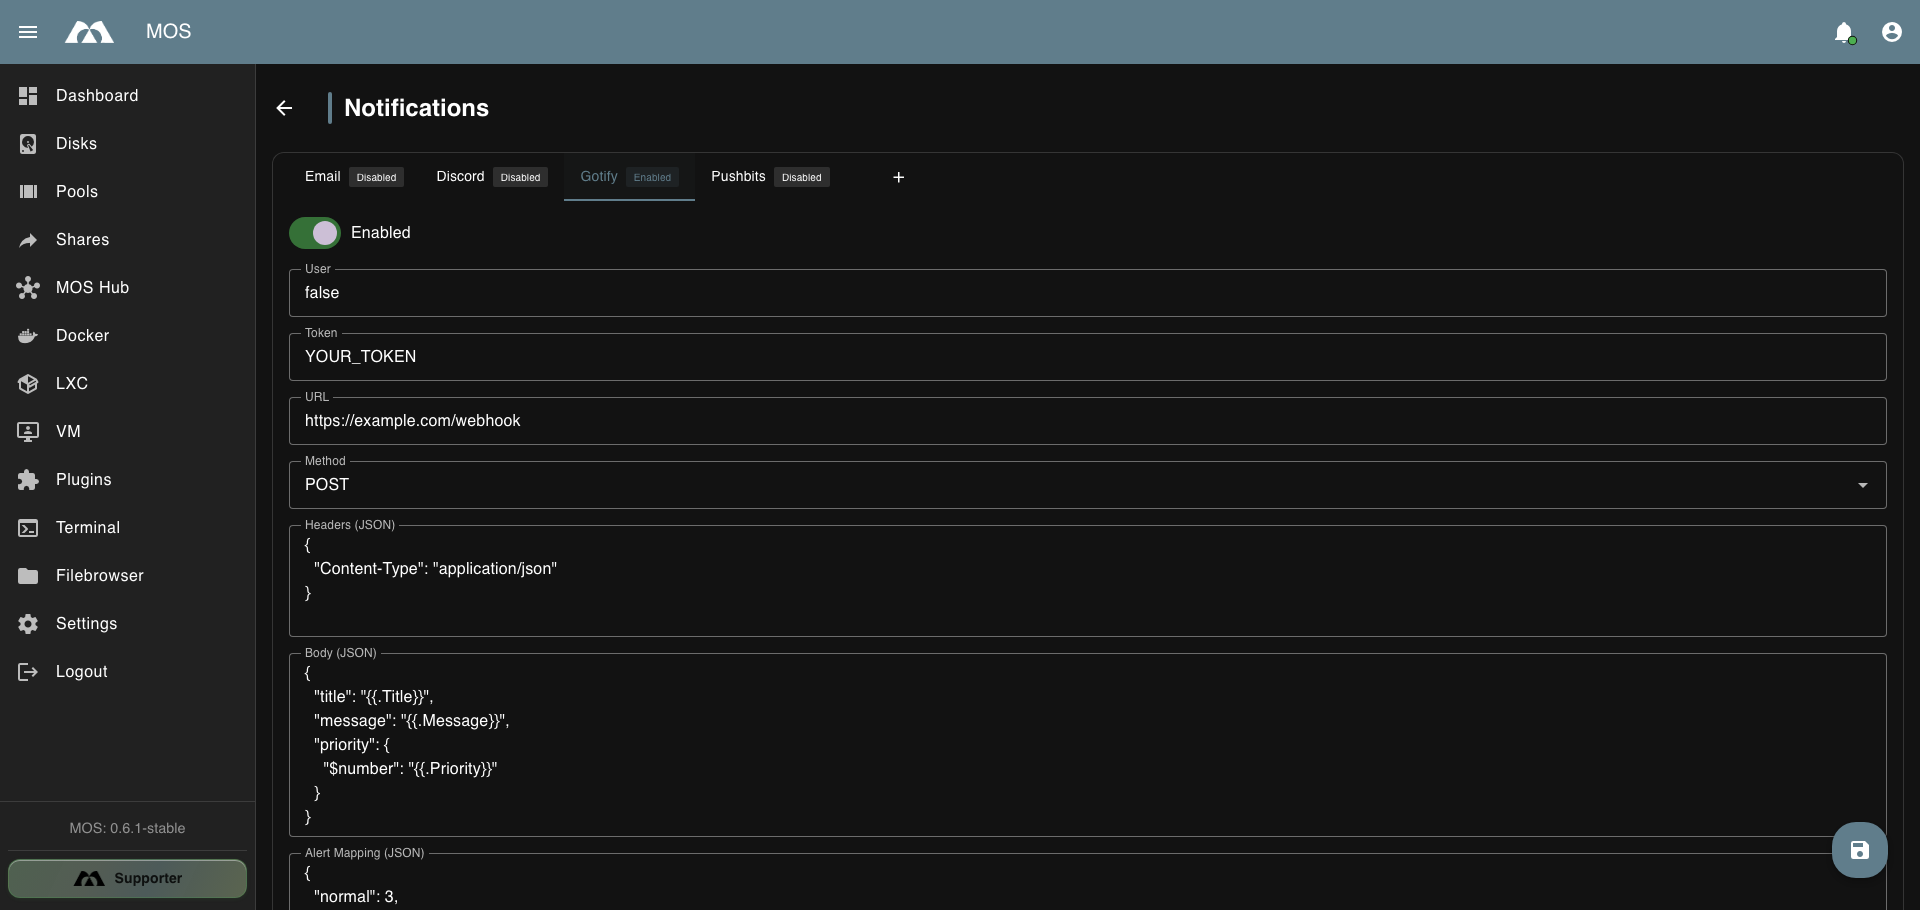
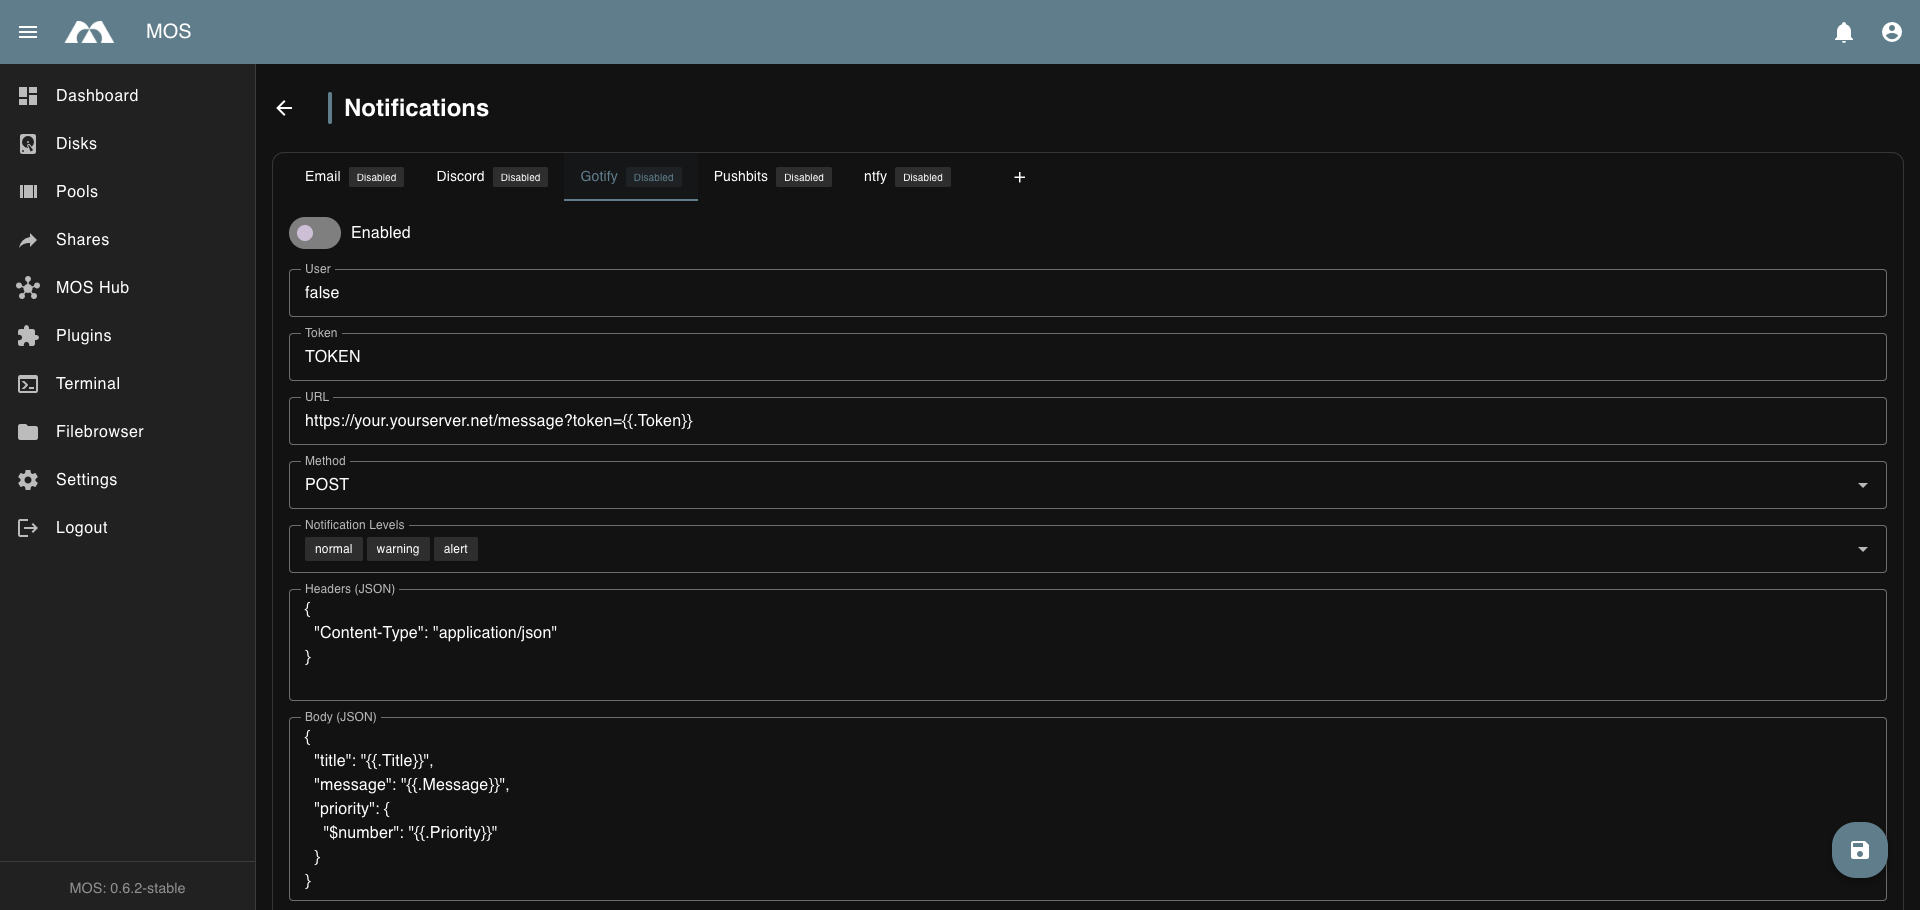
Edit Token and Notification

diff --git a/docs/Settings/System-Configuration/Notifications.md b/docs/Settings/System-Configuration/Notifications.md
@@ -35,6 +35,7 @@ MOS Notify supports the following notification providers:
 | **Discord** | Webhook | Send notifications to a Discord channel via webhook |
 | **Gotify** | API | Send notifications to a self-hosted Gotify server |
 | **Pushbits** | API | Send notifications to a self-hosted Pushbits instance |
+| **ntfy** | API | Send notifications to a self-hosted ntfy server |
 
 :::info
 Multiple providers can be enabled simultaneously. If no external provider is configured, notifications will still be displayed inside the MOS WebUI.
@@ -47,11 +48,13 @@ flowchart LR
   Notify --> Discord[Discord]
   Notify --> Gotify[Gotify]
   Notify --> Pushbits[Pushbits]
+  Notify --> Ntfy[ntfy]
   Notify --> Custom[Custom provider]
   Email --> User[Recipient]
   Discord --> User
   Gotify --> User
   Pushbits --> User
+  Ntfy --> User
   Custom --> User
 ```
 
@@ -81,6 +84,7 @@ The Email provider sends notifications via SMTP.
 | **Receiver** | Text | — | Email address that receives the notifications |
 | **Subject** | Text | `{{.Title}}` | Email subject template (supports template variables) |
 | **Body** | Text | `{{.Message}}` | Email body template (supports template variables) |
+| **Notification Levels** | Select | All | Levels delivered by this provider: `normal`, `warning`, `alert` |
 | **Alert Mapping (JSON)** | JSON | `{}` | Maps alert types to specific notification behavior |
 
 :::tip
@@ -104,6 +108,7 @@ The Discord provider sends notifications to a Discord channel via a webhook URL.
 | **Method** | Dropdown | `POST` | HTTP method for the webhook request |
 | **Headers (JSON)** | JSON | — | Custom HTTP headers for the webhook request |
 | **Body (JSON)** | JSON | — | Request body payload (supports template variables) |
+| **Notification Levels** | Select | All | Levels delivered by this provider: `normal`, `warning`, `alert` |
 | **Alert Mapping (JSON)** | JSON | — | Maps alert types to specific notification behavior |
 | **Color Priority (JSON)** | JSON | — | Defines embed colors based on priority levels |
 | **Delete Provider** | Button | — | Removes this provider configuration |
@@ -125,6 +130,7 @@ The Gotify provider sends notifications to a self-hosted Gotify server.
 | **Method** | Dropdown | `POST` | HTTP method for the API request |
 | **Headers (JSON)** | JSON | — | Custom HTTP headers |
 | **Body (JSON)** | JSON | — | Request body payload (supports template variables) |
+| **Notification Levels** | Select | All | Levels delivered by this provider: `normal`, `warning`, `alert` |
 | **Alert Mapping (JSON)** | JSON | — | Maps alert types to specific notification behavior |
 | **Color Priority (JSON)** | JSON | — | Defines notification colors based on priority |
 | **Delete Provider** | Button | — | Removes this provider configuration |
@@ -146,6 +152,29 @@ The Pushbits provider sends notifications to a self-hosted Pushbits instance.
 | **Method** | Dropdown | `POST` | HTTP method for the API request |
 | **Headers (JSON)** | JSON | — | Custom HTTP headers |
 | **Body (JSON)** | JSON | — | Request body payload (supports template variables) |
+| **Notification Levels** | Select | All | Levels delivered by this provider: `normal`, `warning`, `alert` |
+| **Alert Mapping (JSON)** | JSON | — | Maps alert types to specific notification behavior |
+| **Color Priority (JSON)** | JSON | — | Defines notification colors based on priority |
+| **Delete Provider** | Button | — | Removes this provider configuration |
+
+### 📨 ntfy
+
+The ntfy provider sends notifications to a self-hosted [ntfy](https://ntfy.sh) server.
+
+![ntfy Provider](/img/settings/system-configuration/notify-ntfy.png)
+
+*ntfy provider configuration.*
+
+| Field | Type | Default | Description |
+|-------|------|---------|-------------|
+| **Enabled** | Toggle | Off | Enables or disables the ntfy provider |
+| **User** | Text | — | ntfy username |
+| **Token** | Text | — | ntfy access token |
+| **URL** | Text | — | ntfy server URL |
+| **Method** | Dropdown | `POST` | HTTP method for the API request |
+| **Notification Levels** | Select | All | Levels delivered by this provider: `normal`, `warning`, `alert` |
+| **Headers (JSON)** | JSON | — | Custom HTTP headers |
+| **Body (JSON)** | JSON | — | Request body payload (supports template variables) |
 | **Alert Mapping (JSON)** | JSON | — | Maps alert types to specific notification behavior |
 | **Color Priority (JSON)** | JSON | — | Defines notification colors based on priority |
 | **Delete Provider** | Button | — | Removes this provider configuration |
@@ -156,7 +185,7 @@ The Pushbits provider sends notifications to a self-hosted Pushbits instance.
 
 Custom providers can be added via the **+** (floating action button) in the bottom-right corner of the Notifications page.
 
-This allows you to configure additional webhook-based notification providers that follow the same field structure as Discord, Gotify, and Pushbits (User, Token, URL, Method, Headers, Body, Alert Mapping, Color Priority).
+This allows you to configure additional webhook-based notification providers that follow the same field structure as Discord, Gotify, Pushbits, and ntfy (User, Token, URL, Method, Headers, Body, Alert Mapping, Color Priority).
 
 :::tip
 If you have implemented a new provider and would like to share it, please open a Pull Request at: [github.com/mos-nas/mos-boot-files](https://github.com/mos-nas/mos-boot-files)
@@ -224,7 +253,7 @@ The Notify service provides flexible notification delivery for MOS system events
 
 Key points:
 
-- **Four built-in providers** — Email, Discord, Gotify, Pushbits
+- **Five built-in providers** — Email, Discord, Gotify, Pushbits, ntfy
 - **WebUI configuration** — all providers can be configured directly from the browser
 - **Custom providers** — add additional webhook-based providers via the + button
 - **Template variables** — use `{{.Title}}` and `{{.Message}}` in subject/body fields

diff --git a/docs/Settings/Network/Token.md b/docs/Settings/Network/Token.md
@@ -41,9 +41,9 @@ Once created, the token can be used for API access and automation.
 
 ---
 
-## 🌐 External Service Tokens
+## 🔑 Client Token
 
-External service tokens increase API limits and prevent download throttling when interacting with public repositories.
+Client tokens are stored centrally in MOS and increase API limits, preventing download throttling when interacting with public repositories.
 
 ---
 
